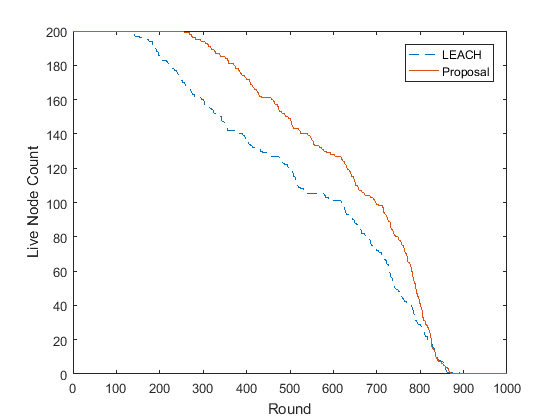
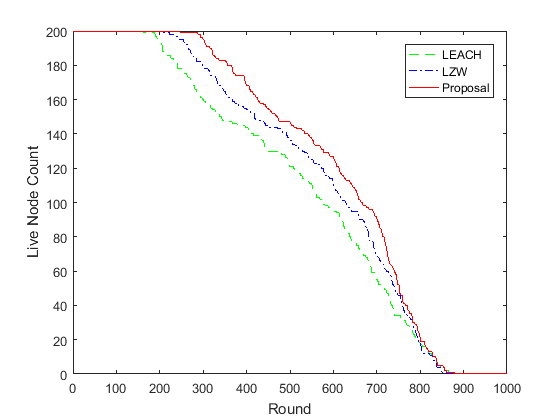
add LZW Compression

diff --git a/compressionLZW.m b/compressionLZW.m
@@ -2,7 +2,7 @@ function [packLen] = compressionLZW (dataIn)
 
 originalText = [dataIn]; % Makes the "originalText" a char class variable from cell class.
 
-
+%originalText = cell2mat(originalText);
 initialDictionary = unique(originalText); % Chooses the unique characters of the input text.
 fprintf('Original Text:%s\n', originalText); % Displays the original text.
 fprintf('Initial Dictionary:%s\n', initialDictionary); % Displays the initial dictionary.
@@ -20,10 +20,11 @@ end
 P = '';
 P_code = -1;
 k = 0;
+idicmaxLen = length(initialDictionary);
 
 for i=1:length(originalText)
     Q = strcat(P,originalText(i));
-    for j=1:length(initialDictionary)
+    for j=1:idicmaxLen
         Q_code = 0;
         if (strcmp(Q, Dictionary(j)) == 1)
             Q_code = j;
@@ -36,14 +37,20 @@ for i=1:length(originalText)
     else
         k = k+1;
         output(k) = P_code;
-        initialDictionaryLen = length(initialDictionary) + 1;
-        Dictionary(initialDictionaryLen) = {Q};
+        idicmaxLen = idicmaxLen + 1;
+        Dictionary(idicmaxLen) = {Q};
         P = originalText(i);
         P_code = strfind(initialDictionary, P);
     end
 end
 k = k+1;
 output(k) = P_code;
+display(output);
+
 [packLen, n]=  size(dec2bin((sprintf('%s', output).'))-'0');
+% str_x = num2str(output);
+% str_x(isspace(str_x)) = ''
+
+% packLen = dec2bin(output);
 
 end

diff --git a/lzw.m b/lzw.m
@@ -12,6 +12,7 @@ options.Resize='on'; % Makes the prompt window resizable.
 options.WindowStyle='normal'; % Makes the prompt window "normal" instead of being "modal".
 originalText = inputdlg(input, dlg_title, num_lines, defaultoriginalText,options); % Displays the prompt window with assigned features.
 originalText = cell2mat(originalText); % Makes the "originalText" a char class variable from cell class.
+
 if isempty(originalText) % Nothing happens if the user clicks "Cancel" or clicks "Ok" while the text field is empty.
 	return;
 end
@@ -50,7 +51,10 @@ for i=1:length(originalText)
     else
         k = k+1;
         output(k) = P_code;
+        initialDictionary
+        length(initialDictionary)
         length(initialDictionary) = length(initialDictionary) + 1;
+        length(initialDictionary)
         Dictionary(length(initialDictionary)) = {Q};
         P = originalText(i);
         P_code = strfind(initialDictionary, P);
@@ -62,6 +66,7 @@ display(output);
 
 
 [m, n]=  size(dec2bin((sprintf('%d', output).'), 16)-'0');
+m
 % packetLength = length(dec2bin(str2num(sprintf('%d', output).'), 16) - '0') * 16
 
 

diff --git a/leach.m b/leach.m
@@ -378,7 +378,7 @@ end
 
 %plot(x,y,'r',x,z,'b');
 
-plot(leach_data(1, [1:rmax]),leach_data(2, [1:rmax]),'g--', lzw_data(1, [1:rmax]), lzw_data(2, [1:rmax]), 'b:', initil_leach_data(1, [1:rmax]), initil_leach_data(2, [1:rmax]), 'r-');
+plot(leach_data(1, [1:rmax]),leach_data(2, [1:rmax]),'g--', lzw_data(1, [1:rmax]), lzw_data(2, [1:rmax]), 'b-.', initil_leach_data(1, [1:rmax]), initil_leach_data(2, [1:rmax]), 'r-');
 xlabel('Round');
 ylabel('Live Node Count');
 legend('LEACH', 'LZW','Proposal');
